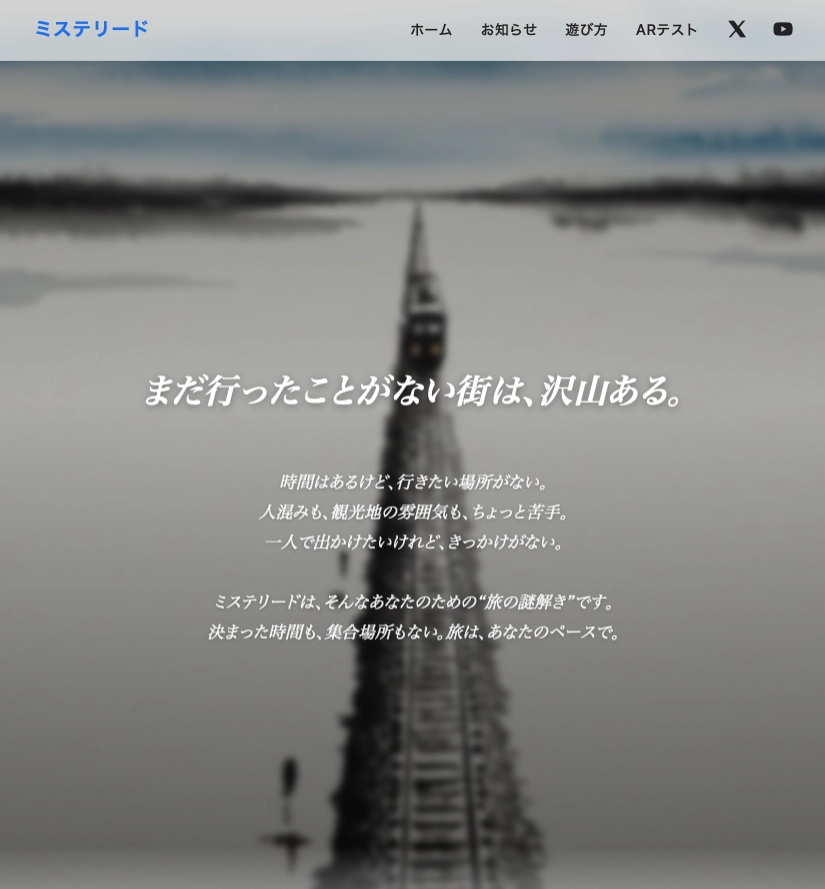
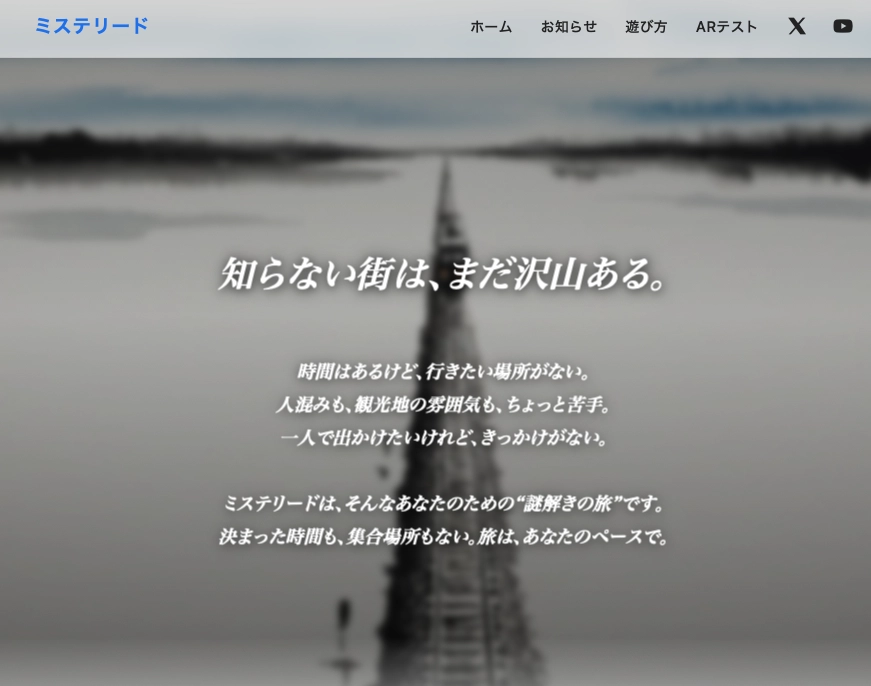
良い感じ　一旦コミット

diff --git a/public/index.html b/public/index.html
@@ -4,7 +4,7 @@
 <head>
     <meta charset="utf-8" />
     <meta name="viewport" content="width=device-width, initial-scale=1, viewport-fit=cover" />
-    <title>ミステリード – 街で解く物語</title>
+    <title>ミステリード – 謎解きの旅</title>
     <link rel="icon" href="./favicon.ico" />
     <link rel="stylesheet" href="./css/base.css" />
     <link rel="stylesheet" href="./css/home.css" />
@@ -96,14 +96,14 @@
             <div class="hero-overlay"></div>
             <div class="viewport-fader"></div>
             <div class="hero-inner">
-                <h1 class="hero-title">まだ行ったことがない街は、沢山ある。</h1>
+                <h1 class="hero-title">知らない街は、まだ沢山ある。</h1>
                 <p class="hero-lead">
                     <br>
                     時間はあるけど、行きたい場所がない。<br>
                     人混みも、観光地の雰囲気も、ちょっと苦手。<br>
                     一人で出かけたいけれど、きっかけがない。<br>
                     <br>
-                    ミステリードは、そんなあなたのための“旅の謎解き”です。<br>
+                    ミステリードは、そんなあなたのための“謎解きの旅”です。<br>
                     決まった時間も、集合場所もない。旅は、あなたのペースで。
                 </p>
             </div>
@@ -114,25 +114,22 @@
             <h2 class="section-cards">配信一覧</h2>
 
             <!-- カード（NEWは is-new を付ける）?intro=1でここからのアクセスでOPアニメーションを着火させる　　 -->
-            <a class="card is-new open-modal reveal" href="#" data-title="蓮田編"
+            <a class="card is-new open-modal reveal" href="#" data-title="思い出のアルバム"
                 data-normal="./stories/story-02/stages/01/stage.html?intro=1"
                 data-story="./stories/story-02/stages/01h/stage.html?intro=1">
                 <div class="card-media">
-                    <img src="./assets/images/main-cards/main-card-01.webp" alt="茎と魚は何故消えたのか？ のサムネイル" loading="lazy" />
+                    <img src="./assets/images/main-cards/main-card-01.webp" alt="思い出のアルバム" loading="lazy" />
                     <span class="badge badge-new">NEW</span>
                 </div>
                 <div class="card-body">
-                    <div class="card-title">蓮田編</div>
+                    <div class="card-title">思い出のアルバム</div>
                     <p class="card-desc">
-                        作成中
+                        田んぼの中に佇む人間・・・ 陽気さと不気味さが不安を掻き立てる。彼はどこにいるのだろうか？
                     </p>
                     <div class="meta">
-                        <!-- <span class="chip">10/27配信</span>
+                        <span class="chip">11/1配信</span>
                         <span class="chip" aria-label="難易度 星1">レベル⭐</span>
-                        <span class="chip">関東</span>
-                        <span class="chip">徒歩可</span>
-                        <span class="chip">移動目安3km</span>
-                        <span class="chip">手記シリーズ</span> -->
+                        <span class="chip">自宅で駅当てシリーズ</span>
                     </div>
                 </div>
             </a>

diff --git a/public/stories/story-01/stages/04/config.js b/public/stories/story-01/stages/04/config.js
@@ -83,7 +83,7 @@ export const STAGE = {
             { who: "hina", face: "thinking", text: "「キオクの素粒子」の部分です\n「キオク」だけでも問題ないように思えます" },
             { who: "masu", face: "thinking", text: "うん、僕もそう思う。\nそして、これがおそらく「街のどこかで見た言葉」なんじゃないだろうか？" },
             { who: "hina", face: "surprised", text: "ちょっとAIに聞いてみましょう！" },
-            { type: "image", src: "../../../../assets/images/parts/画像.webp", alt: "ミステリード画面" },
+            { type: "image", src: "../../assets/images/parts/parts-12.webp", alt: "ミステリード画面" },
             { who: "hina", face: "surprised", text: "この人だ！\nそして、この記念碑が駅前にあるらしいです！" },
             { who: "masu", face: "normal", text: "どうやら、\nそこに探している「言葉」があるかもしれないね" },
             { type: "note" },

diff --git a/public/css/home.css b/public/css/home.css
@@ -190,14 +190,19 @@
     font-weight: 700;
     margin-bottom: 24px;
     line-height: 1.4;
-    text-shadow: 0 2px 8px rgba(0, 0, 0, .35);
+    text-shadow: 0 2px 10px rgba(0, 0, 0, 0.55), 0 0 18px rgba(0, 0, 0, 0.35);
 }
 
 .page-home .hero-lead {
     font-size: clamp(16px, 2vw, 20px);
-    line-height: 1.8;
-    color: rgba(255, 255, 255, .92);
-    text-shadow: 0 1px 4px rgba(0, 0, 0, .3);
+    line-height: 1.85;
+    /* 1.8→1.85 わずかに読みやすく */
+    color: rgba(255, 255, 255, 0.995);
+    /* より白く・くっきり */
+    font-weight: 600;
+    /* 文字の芯を太く */
+    text-shadow: 0 2px 10px rgba(0, 0, 0, 0.55), 0 0 18px rgba(0, 0, 0, 0.35);
+    /* 影を強化 */
 }
 
 /* --- Hero scroll-out animation (title to left, lead to right) --- */

diff --git a/public/stories/story-01/stages/01/config.js b/public/stories/story-01/stages/01/config.js
@@ -3,7 +3,7 @@ export const STAGE = {
     // ===== 基本 =====
     id: "story01_stage01",    //クリア判定に使用　毎回ちゃんと設定　探偵モードはhをつける　これで、繰り替えしを解除している
     title: "胡椒を挽く男",
-    mode: "ar",                 // "ar" or "geo"
+    mode: "geo",                 // "ar" or "geo"
     variant: "chat",            // "plain" or "chat"
     answer: "サンプル",
     nextUrl: "../02/stage.html?intro=1",
